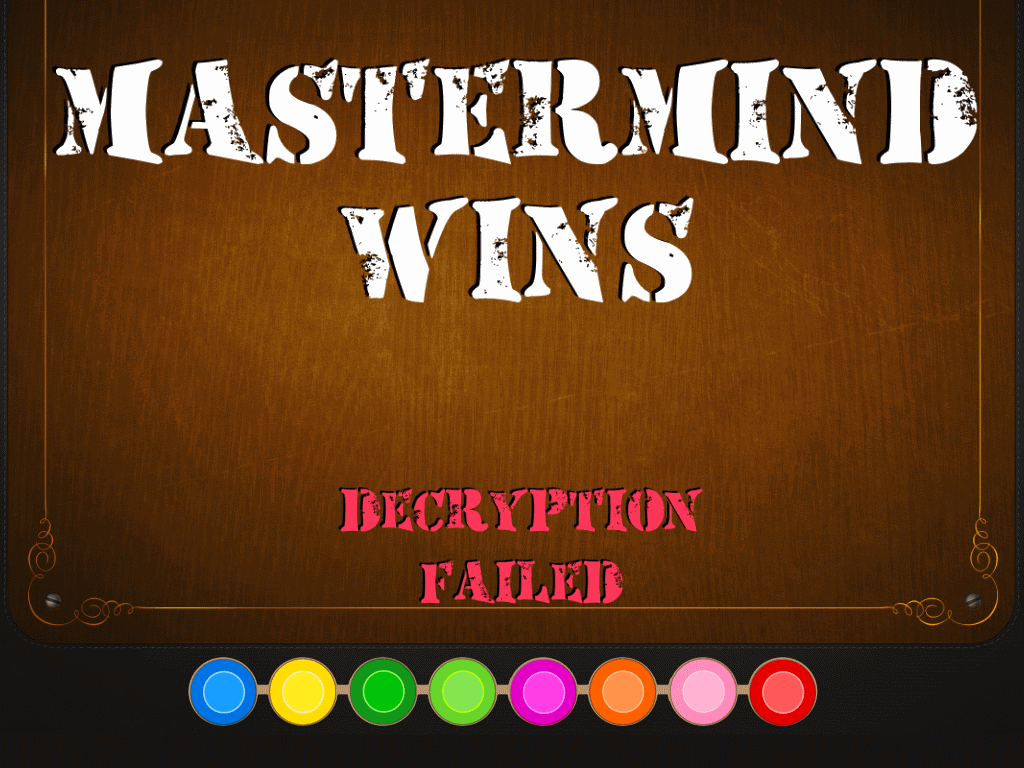
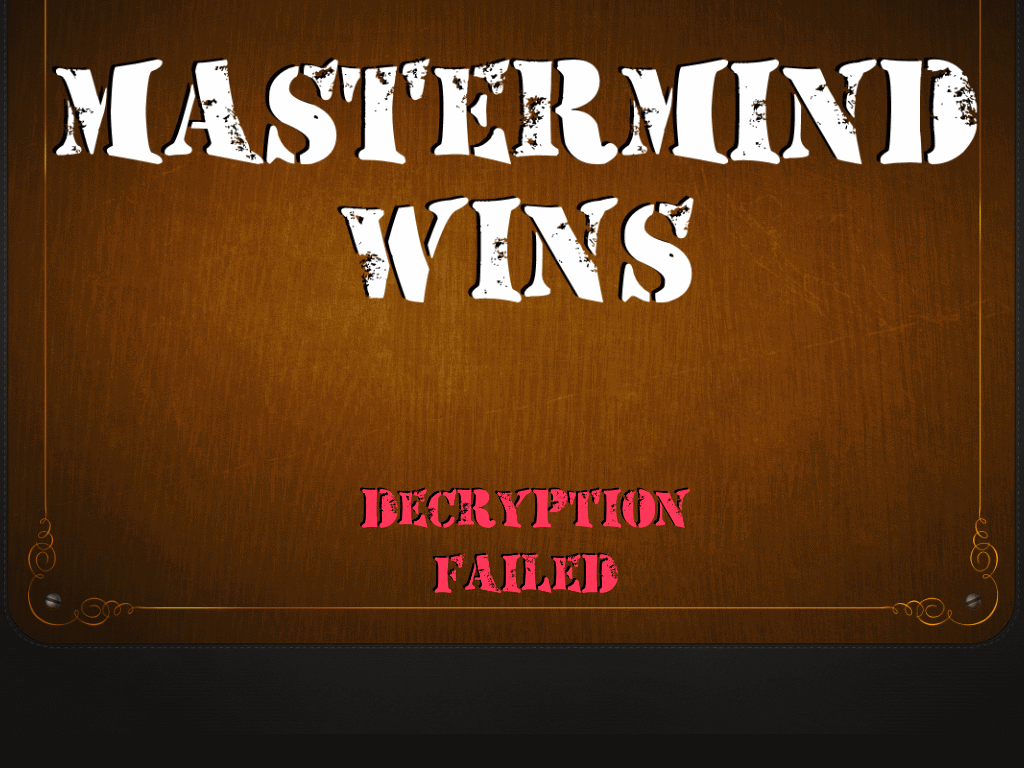
[+] MasterMindFeld in Gewinner Stage eingebaut
Player Win Stage & Master Win Stage mit MasterMindFeld vorbereitet...
Befuellung mit Farbcode des MasterMinds fehlt

Changed region(s): [[0.1875, 0.8438, 0.8125, 0.9688], [0.3125, 0.625, 0.6875, 0.6875], [0.4062, 0.7188, 0.625, 0.8125]]

diff --git a/src/GUI/GUI.java b/src/GUI/GUI.java
@@ -4,9 +4,13 @@
 
 package GUI;
 
+import com.sun.javafx.cursor.CursorType;
 import javafx.application.Application;
+import javafx.fxml.FXML;
 import javafx.fxml.FXMLLoader;
 import javafx.scene.*;
+import javafx.scene.Cursor;
+import javafx.scene.input.MouseEvent;
 import javafx.stage.Stage;
 
 import java.awt.*;
@@ -36,9 +40,13 @@ public class GUI extends Application
     private static final String SETZFELD ="#setzFeld";
     private static final String FARBFELD ="#farbFeld";
     private static final String MASTERFELD ="#masterFeld";
+    private static final String MASTERPADLOCKS = "#masterPadlocks";
     private static final String VERSUCHFELD ="#versuchFeld";
     private static final String PLAYPANE ="#playPane";
     private static final String SIGNALPANE="#signalPane";
+
+
+
 
     public GUI(){}
     public static void main(String[] args)
@@ -50,15 +58,21 @@ public class GUI extends Application
         Parent root = FXMLLoader.load(getClass().getResource("stages/startbild.fxml"));
         Scene scene = new Scene(root);
         stage.setScene(scene);
+        scene.setCursor(Cursor.OPEN_HAND);
+        scene.getCursor();
         stage.setResizable(false);
         stage.show();
     }
+
+
 
     public Scene ladeMastermindSetzen()throws Exception
     {
         Parent root = FXMLLoader.load(getClass().getResource("stages/mastermindSetzen.fxml"));
         Scene scene = new Scene(root);
         mastermindSetzenAufloesung(scene);
+        scene.setCursor(Cursor.OPEN_HAND);
+        scene.getCursor();
         return scene;
     }
 
@@ -67,6 +81,8 @@ public class GUI extends Application
         Parent root = FXMLLoader.load(getClass().getResource("stages/zwischenVersuch.fxml"));
         Scene scene = new Scene(root);
         zwischenVersuchAufloesung(scene);
+        scene.setCursor(Cursor.OPEN_HAND);
+        scene.getCursor();
         return scene;
     }
 
@@ -75,6 +91,9 @@ public class GUI extends Application
         Parent root = FXMLLoader.load(getClass().getResource("stages/masterSignal.fxml"));
         Scene scene = new Scene(root);
         signalSceneAufloesung(scene);
+        scene.setCursor(Cursor.OPEN_HAND);
+        scene.getCursor();
+
         return scene;
     }
 
@@ -83,6 +102,8 @@ public class GUI extends Application
         Parent root = FXMLLoader.load(getClass().getResource("stages/versuch.fxml"));
         Scene scene = new Scene(root);
         versuchsceneAufloesung(scene);
+        scene.setCursor(Cursor.OPEN_HAND);
+        scene.getCursor();
         return scene;
     }
     
@@ -129,8 +150,10 @@ public class GUI extends Application
                 +BACKGROUNDDIMENSION);
         scene.lookup(SETZFELD).setLayoutX((385/DISPLAYBREITE)*BACKGROUNDBREITE);
         scene.lookup(SETZFELD).setLayoutY((337/DISPLAYHOEHE)*BACKGROUNDHOEHE);
-        scene.lookup(FARBFELD).setLayoutX((475/DISPLAYBREITE)*BACKGROUNDBREITE);
-        scene.lookup(FARBFELD).setLayoutY((432/DISPLAYHOEHE)*BACKGROUNDHOEHE);
+        scene.lookup(FARBFELD).setLayoutX((425/DISPLAYBREITE)*BACKGROUNDBREITE);
+        scene.lookup(FARBFELD).setLayoutY((415/DISPLAYHOEHE)*BACKGROUNDHOEHE);
+        scene.lookup(MASTERPADLOCKS).setLayoutX((385/DISPLAYBREITE)*BACKGROUNDBREITE);
+        scene.lookup(MASTERPADLOCKS).setLayoutY((67/DISPLAYHOEHE)*BACKGROUNDHOEHE);
         scene.lookup(MASTERFELD).setLayoutX((385/DISPLAYBREITE)*BACKGROUNDBREITE);
         scene.lookup(MASTERFELD).setLayoutY((87/DISPLAYHOEHE)*BACKGROUNDHOEHE);
         scene.lookup(VERSUCHFELD).setLayoutX((385/DISPLAYBREITE)*BACKGROUNDBREITE);
@@ -155,6 +178,10 @@ public class GUI extends Application
     {
         scene.lookup(HAUPTPANE).setStyle(SIEGSPIELER+StartController.getNOREPEAT()+StartController.getBACKGROUNDIMAGEPOSITION()
                 +BACKGROUNDDIMENSION);
+
+        scene.lookup(MASTERFELD).setLayoutX((450/DISPLAYBREITE)*BACKGROUNDBREITE);
+        scene.lookup(MASTERFELD).setLayoutY((485/DISPLAYHOEHE)*BACKGROUNDHOEHE);
+
         scene.lookup(START).setLayoutX((214/DISPLAYBREITE)*BACKGROUNDBREITE);
         scene.lookup(START).setLayoutY((348/DISPLAYHOEHE)*BACKGROUNDHOEHE);
         scene.lookup(QUIT).setLayoutX((684/DISPLAYBREITE)*BACKGROUNDBREITE);

diff --git a/src/GUI/StartController.java b/src/GUI/StartController.java
@@ -5,12 +5,19 @@
 package GUI;
 
 import MasterMind.*;
+import javafx.event.Event;
+import javafx.event.EventHandler;
 import javafx.fxml.FXML;
 import javafx.event.ActionEvent;
+import javafx.scene.Cursor;
+import javafx.scene.Node;
 import javafx.scene.Scene;
 import javafx.scene.input.KeyCombination;
+import javafx.scene.input.MouseEvent;
 import javafx.stage.Stage;
 import javafx.scene.control.Button;
+
+import javax.swing.*;
 
 public class StartController
 {
@@ -62,6 +69,9 @@ public class StartController
     private static final String SIEGMASTERMIND = BACKGROUND+HINTERGRUNDPFAD+"bg-mastermind-win"+BILDDATEIENDUNG;
     private static final String SIGNALBACKGROUND = BACKGROUND+HINTERGRUNDPFAD+"bg-signal-slot"+BILDDATEIENDUNG;
 
+
+
+
     @FXML protected void handleStartButtonAction(ActionEvent event)throws Exception
     {
         zug = 1;
@@ -85,6 +95,9 @@ public class StartController
     {
         System.exit(0);
     }
+
+
+
 
     @FXML protected void handleSchwarzAction(ActionEvent event)
     {
